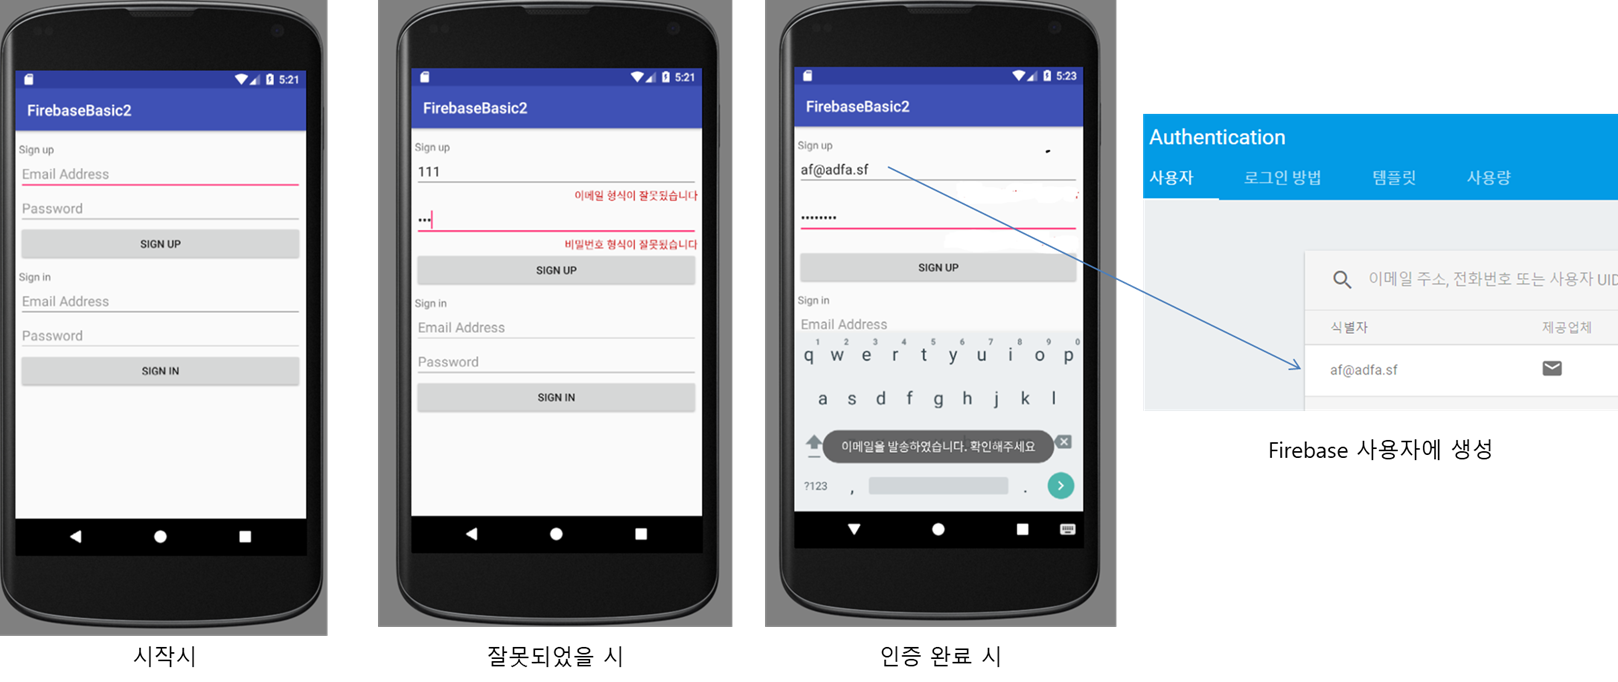
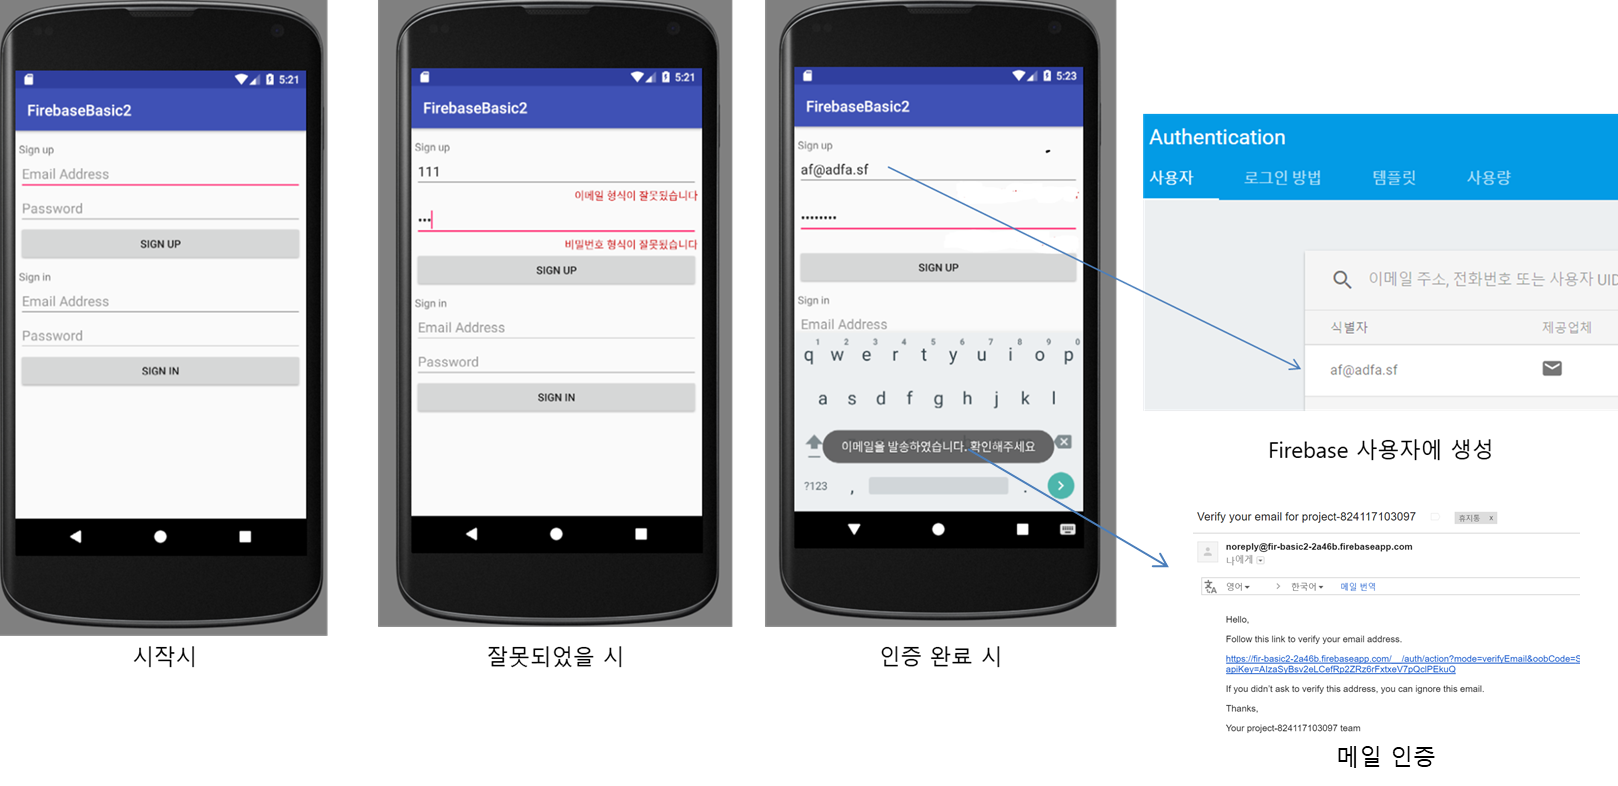
[BasicFirebase3] Storage 정리 완료

diff --git a/Android/Contents/BasicFirebase3/Readme.md b/Android/Contents/BasicFirebase3/Readme.md
@@ -1,12 +1,12 @@
 # Firebase Basic 3
-  - Firebase 프로젝트 반자동 생성(Authentication)
+  - Firebase 프로젝트 반자동 생성
   - Signup / Signin (Authentication) 기능
   - ㅇㅇ
 
 ---
 
-## Firebase 프로젝트 반자동 생성(Authentication) 까지
-  ### 1. firebase 프로젝트 생성 순서
+## Authentication 기능
+  ### 1. firebase 프로젝트(Authentication) 생성 순서
   - Tool의 firebase 클릭 -> 오른쪽 탭에서 Authentication + email... 클릭 -> 순서대로 진행 (진행되면 녹색으로 바뀜)
 
   ![](https://github.com/Lee-KyungSeok/Study/blob/master/Android/Contents/BasicFirebase3/picture/firbasecreate.png)
@@ -67,27 +67,251 @@
 
   - 그 후 프로젝트가 자동으로 생성되어 있게 되며 프로젝트/Authentication에 들어가서 sign-in method의 status를 바꾼다. (email은 쉽게 설정되지만 나머지는 직접 설정해야함, facebook이 설정하기 가장 까다로움)
 
+  ### 2. MainActivity 에서의 sign-up / sign-in
+  - sign-up 메소드
+    - 아이디 및 패스워드 체크를 한 후 이상이 없을 시 가입가능
+    - 아이디가 중복되거나 브라우저에서 email status를 안바꾼 경우 fail이 뜨니 조심할 것
+    - 사용자를 생성하며 이메일 확인 후 이용가능하다.
 
----
+  > signup 메소드 및 아이디/패스워드 체크
 
-## Signup / Signin (Authentication) 기능
-  ### 1. Layout
+  ```java
+  public void signup(View view) {
+      // @ 하나, . 하나 필수, "영문" "숫자" "_" "-" 허용
+      String email = editEmail.getText().toString();
+      // 특수문자 하나 이상 "!, @, #, $, %, ^, &, *, (, )" 들어감 => 바꾸면 안됨
+      // 영문, 숫자
+      String password = editPassword.getText().toString();
+      // validation check
+      if(!isValidEmail(email) || !isValidPassword(password)){
+          if(!isValidEmail(email)) {
+              infoEmail.setText("이메일 형식이 잘못됬습니다");
+              infoEmail.setVisibility(View.VISIBLE);
+          }
+          if(!isValidPassword(password)) {
+              infoPassword.setText("비밀번호 형식이 잘못됬습니다");
+              infoPassword.setVisibility(View.VISIBLE);
+          }
+          return;
+      }
+
+      // 파이어베이스의 인증모듈로 사용자를 생성
+      mAuth.createUserWithEmailAndPassword(email, password)
+              // 완료확인 리스너
+              .addOnCompleteListener(this, new OnCompleteListener<AuthResult>() {
+                  @Override
+                  public void onComplete(@NonNull Task<AuthResult> task) {
+                      if (task.isSuccessful()) {
+                          FirebaseUser user = mAuth.getCurrentUser();
+                          // 이메일 유효성을 확인하기 위해 해당 이메일로 메일이 발송된다.
+                          user.sendEmailVerification()
+                                  .addOnCompleteListener(new OnCompleteListener<Void>() {
+                                      @Override
+                                      public void onComplete(@NonNull Task<Void> task) {
+                                        // 원래는 다음 엑티비티로 이동시킨다.
+                                          Toast.makeText(MainActivity.this ,"이메일을 발송하였습니다. 확인해주세요", Toast.LENGTH_SHORT).show();
+                                      }
+                                  });
+                      } else {
+                          Toast.makeText(MainActivity.this, "Authentication failed.",
+                                  Toast.LENGTH_SHORT).show();
+                      }
+                  }
+              });
+  }
+
+  /**
+   * Comment  : 정상적인 이메일 / 패스워드인지  인지 검증.
+   */
+  public static boolean isValidEmail(String email) {
+      boolean err = false;
+      String regex = "^[_a-z0-9-]+(.[_a-z0-9-]+)*@(?:\\w+\\.)+\\w+$";
+      Pattern p = Pattern.compile(regex);
+      Matcher m = p.matcher(email);
+      if(m.matches()) {
+          err = true;
+      }
+      return err;
+  }
+  public static boolean isValidPassword(String password) {
+      boolean err = false;
+      // 영문자와 숫자만 허용, 8자리 이상
+      String regex = "^[A-Za-z0-9]{8,}$";
+      Pattern p = Pattern.compile(regex);
+      Matcher m = p.matcher(password);
+      if(m.matches()) {
+          err = true;
+      }
+      return err;
+  }
+  ```
+
+  - sign-in 메소드
+    - 먼저 가입되어 있는지 확인하고 이메일이 검증되었는지 체크 후 엑티비티를 이동시킨다.
+
+  > sign in 메소드
+
+  ```java
+  public void signin(View view){
+      String email = signEmail.getText().toString();
+      String password = signPassword.getText().toString();
+
+      mAuth.signInWithEmailAndPassword(email, password)
+              .addOnCompleteListener(this, new OnCompleteListener<AuthResult>() {
+                  @Override
+                  public void onComplete(@NonNull Task<AuthResult> task) {
+                      if (task.isSuccessful()) {
+                          FirebaseUser user = mAuth.getCurrentUser();
+
+                          // 이메일 검증 확인
+                          if(user.isEmailVerified()){
+                              // 다음 페이지로 이동
+                              Intent intent = new Intent(MainActivity.this, StorageActivity.class);
+                              startActivity(intent);
+                              finish();
+                          }else{
+                              Toast.makeText(MainActivity.this,"이메일을 확인하셔야 합니다.",Toast.LENGTH_SHORT).show();
+                          }
+
+                      } else {
+                          Toast.makeText(MainActivity.this, "Authentication failed.",
+                                  Toast.LENGTH_SHORT).show();
+                      }
+                  }
+              });
+  }
+  ```
+
+  ### 3. Layout 및 결과
   - 보통 Signup / Signin Layout에서는 아래에 아이디/비밀번호를 체크하는 text를 출력한다.
   - Layout 및 결과는 아래와 같다
+  - signup 시에는 메일설정을 할 수 있으며 이를 체크한다.
 
   ![](https://github.com/Lee-KyungSeok/Study/blob/master/Android/Contents/BasicFirebase3/picture/signin.png)
 
-  ### 2. signup 메소드
-  - ㅇㅇ
+---
+
+## Storage 기능
+  ### 1. 시작하기
+  - 위와 비슷하게 Tool > firebase > Storage > upload and download... > 순서대로 진행
+  - load의 ex>
+
+  ```java
+  public void upload(){
+      // 실제 파일이 있는 경로
+      Uri file = Uri.fromFile(new File("path/to/images/rivers.jpg"));
+      // 파이어베이스의 스토리지 파일 node
+      StorageReference riversRef = storageRef.child("images/rivers.jpg");
+
+      riversRef.putFile(file)
+              .addOnSuccessListener(new OnSuccessListener<UploadTask.TaskSnapshot>() {
+                  @Override
+                  public void onSuccess(UploadTask.TaskSnapshot taskSnapshot) {
+                      // Get a URL to the uploaded content
+                      Uri downloadUrl = taskSnapshot.getDownloadUrl();
+                  }
+              })
+              .addOnFailureListener(new OnFailureListener() {
+                  @Override
+                  public void onFailure(@NonNull Exception exception) {
+                      // Handle unsuccessful uploads
+                      // ...
+                  }
+              });
+  }
+  ```
+
+  - Firebase 브라우저에서 파일확인하면 아래와 같이 나온다.
+
+  ![](https://github.com/Lee-KyungSeok/Study/blob/master/Android/Contents/BasicFirebase3/picture/image.png)
+
+  ### 2. Storage Activity
+  - 파일 탐색기를 호출하며 `startActivityForResult` 로 실행
+  - 파일이 선택되면 `upload` 메소드를 호출
+  - 성공시 파이어베이스에 업로드, 실패시 메세지를 날린다.
+
+  > Storage Activity
+
+  ```java
+  public class StorageActivity extends AppCompatActivity {
+      // 파일 저장소
+      private StorageReference storageRef;
+
+
+      @Override
+      protected void onCreate(Bundle savedInstanceState) {
+          super.onCreate(savedInstanceState);
+          setContentView(R.layout.activity_storage);
+
+          // 파이어베이스 연결
+          storageRef = FirebaseStorage.getInstance().getReference();
+      }
+
+      // 파일 탐색기 호출
+      public void chooseFile(View view){
+          Intent intent = new Intent(Intent.ACTION_GET_CONTENT);
+          intent.setType("image/*"); // 갤러리 image/* , 동영상 video/* , 어플리케이션 application/*
+          startActivityForResult(intent.createChooser(intent,"Select App"),999);
+      }
+
+      // 파일이 선택되면 호출
+      @Override
+      protected void onActivityResult(int requestCode, int resultCode, Intent data) {
+          super.onActivityResult(requestCode, resultCode, data);
+          if(resultCode == RESULT_OK){
+              Uri uri = data.getData();
+              upload(uri);
+          }
+      }
+
+      public void upload(Uri file){
+          // 파이어베이스의 스토리지 파일node
+          String temp[] = file.getPath().split("/"); // 파일 이름 꺼내는건 다시...
+          String filename = temp[temp.length-1];
+          StorageReference riversRef = storageRef.child("files/"+filename);
+
+          riversRef.putFile(file)
+                  .addOnSuccessListener(new OnSuccessListener<UploadTask.TaskSnapshot>() {
+                      @Override
+                      public void onSuccess(UploadTask.TaskSnapshot taskSnapshot) {
+                          Uri downloadUrl = taskSnapshot.getDownloadUrl();
+                          Log.e("Storage","downloadURL"+downloadUrl.getPath());
+                      }
+                  })
+                  .addOnFailureListener(new OnFailureListener() {
+                      @Override
+                      public void onFailure(@NonNull Exception exception) {
+                          Toast.makeText(StorageActivity.this, exception.getMessage(), Toast.LENGTH_SHORT).show();
+                      }
+                  });
+      }
+
+  }
+  ```
+
+  ### 3. 결과
+  - 파일 업로드를 하면 다음과 같이 스토리지에 파일이 등록된다.
+
+  ![](https://github.com/Lee-KyungSeok/Study/blob/master/Android/Contents/BasicFirebase3/picture/fileupload.png)
+
+---
+
+## noti 기능
+  ### 1. 시작하기
+  - 내용
 
   ```java
 
   ```
 
----
+  ### 2. Storage Activity
+  - 내용
 
-## ??? 기능
-  ### 1. dd
+  ```java
+
+  ```
+
+  ### 3. 결과
   - 내용
 
   ```java
